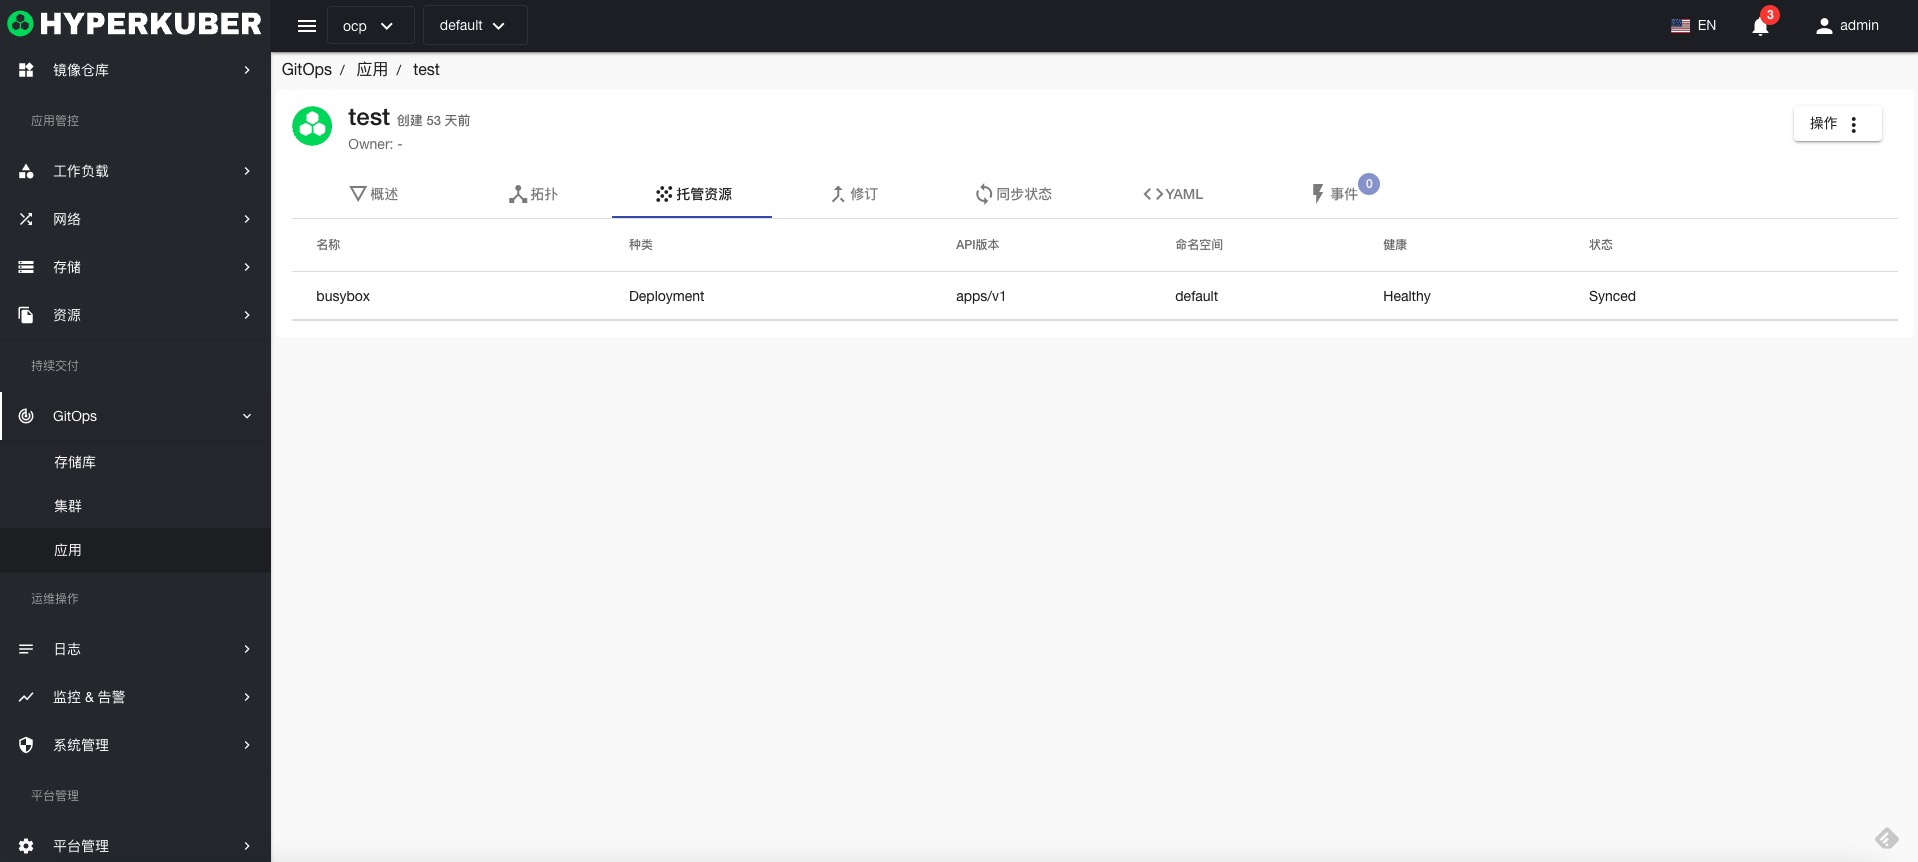
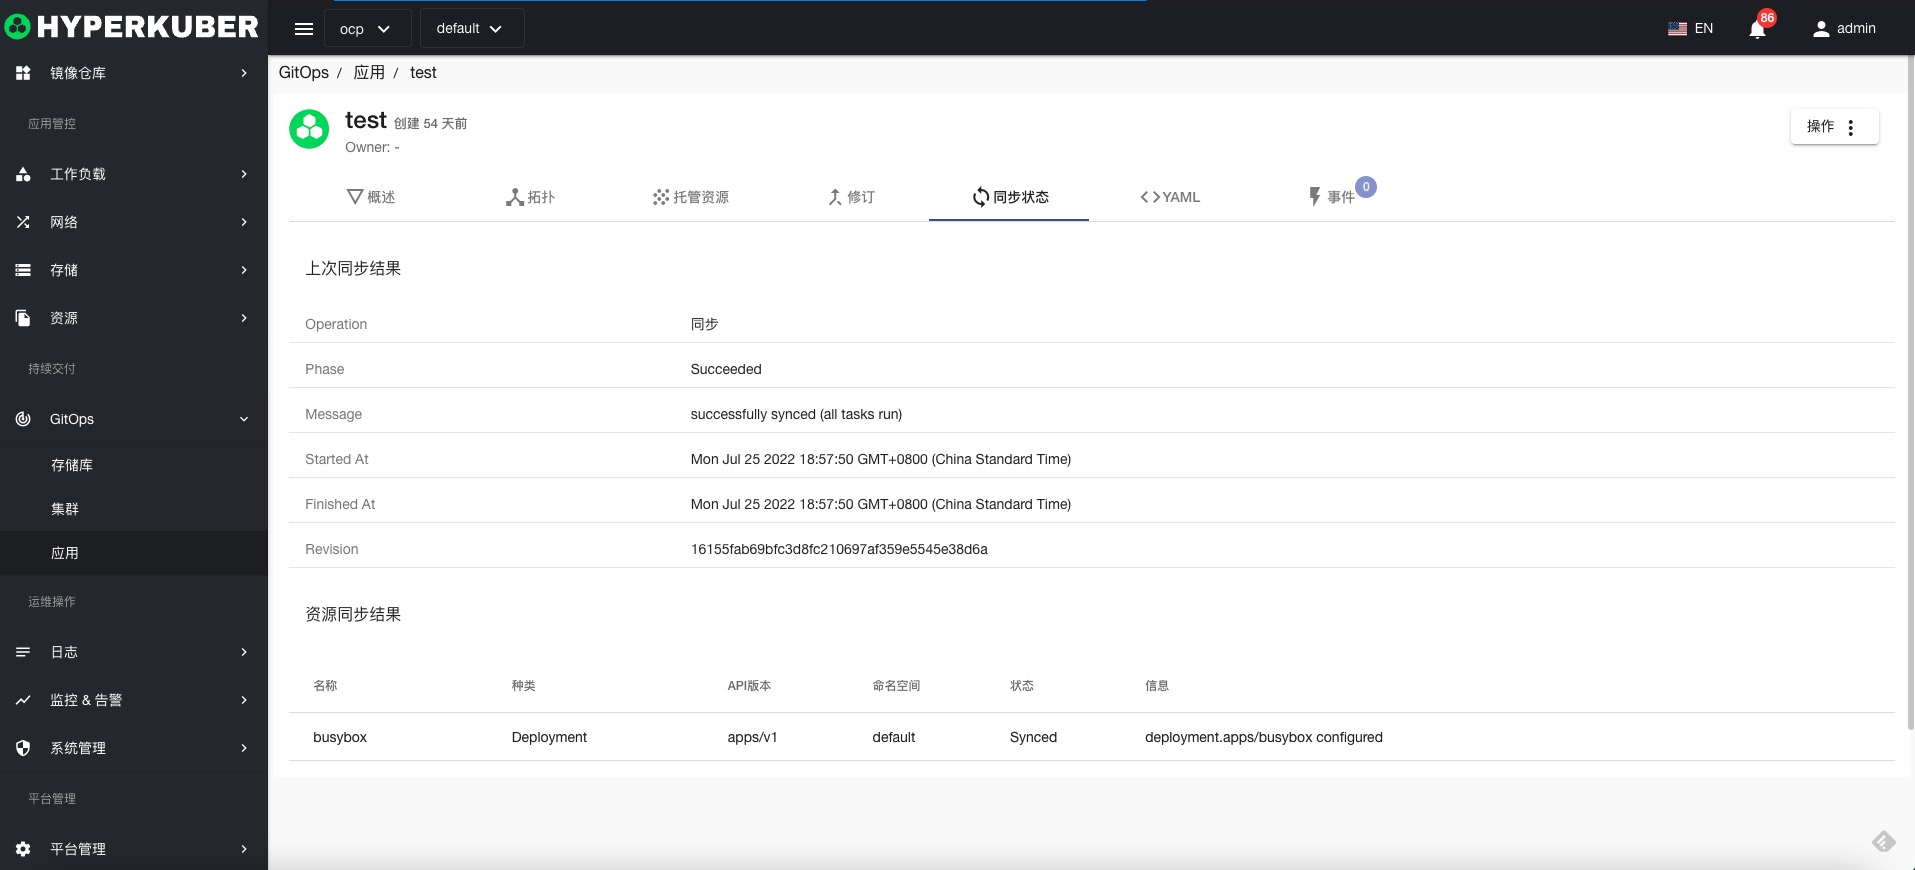
add home readme.md

diff --git a/assets/user-guide/home/project-zh.md b/assets/user-guide/home/project-zh.md
@@ -1,1 +1,39 @@
 # 项目
+
+## 项目
+项目用于对相关对象进行分组和隔离
+![Minion](../../../assets/images/home/project-list.jpg)
+
+## 项目操作
+
+### 创建
+点击“创建项目”按钮，进入创建项目页面，填写必要参数，保存。
+![Minion](../../../assets/images/home/project-create1.jpg)
+参数说明：
+名称：集群中唯一标识
+显示名称： 项目的显示名称
+描述：项目的描述信息
+多集群选择： 选择项目需要创建到的集群
+![Minion](../../../assets/images/home/project-create2.jpg)
+项目总资源限制：
+* CPU 分配以及限制
+* 内存 分配以及限制
+* Pod个数限制
+
+应用程序默认分配：
+* CPU 分配以及限制
+* 内存 分配以及限制
+
+### 详情
+点击“项目”名称链接，进入项目详情页面。
+![Minion](../../../assets/images/home/project-info1.jpg)
+项目资源拓扑图，包括主要的Workload资源显示以及其相互关系
+![Minion](../../../assets/images/home/project-info2.jpg)
+项目用户资源显示
+![Minion](../../../assets/images/home/project-info3.jpg)
+
+
+### 删除
+选择需要删除的项目，点击多选框选择，点击“删除”按钮，在确定输入框输入“yes”，即可完成删除操作。
+### 刷新
+点击“刷新”，即可完成项目列表的刷新。

diff --git a/assets/user-guide/gitops/application-zh.md b/assets/user-guide/gitops/application-zh.md
@@ -25,12 +25,23 @@
 ### 应用详情
 点击“Git应用”列表的链接，进入Git应用详情页面。
 ![Minion](../../../assets/images/gitops/app-info1.jpg)
+Git应用拓扑
 ![Minion](../../../assets/images/gitops/app-info2.jpg)
+Git应用资源
 ![Minion](../../../assets/images/gitops/app-info3.jpg)
+Git仓库信息
 ![Minion](../../../assets/images/gitops/app-info4.jpg)
+Git应用与Git仓库同步状态
 ![Minion](../../../assets/images/gitops/app-info5.jpg)
-![Minion](../../../assets/images/gitops/app-info6.jpg)
+Git应用Yaml信息
+![Minion](../../../assets/images/gitops/app-info7.jpg)
+Yaml支持操作 
+* update
+* apply
+* merge
 
+Git应用事件信息
+![Minion](../../../assets/images/gitops/app-info6.jpg)
 ### 删除
 选择需要删除的Git应用，点击多选框选择，点击“删除”按钮，在确定输入框输入“yes”，即可完成删除操作。
 ### 刷新

diff --git a/assets/user-guide/home/event-zh.md b/assets/user-guide/home/event-zh.md
@@ -1,1 +1,16 @@
-# 事件
+# 首页
+
+## 事件
+
+event中可以显示集群资源的生命周期，为服务的客观测性提供数据来源。
+![Minion](../../../assets/images/home/event-list.jpg)
+## 事件操作
+
+
+### 搜索
+event支持metadata.name关键字进行搜索
+### 事件详情
+点击事件名称的链接，显示事件详情
+![Minion](../../../assets/images/home/event-detail.jpg)
+### 刷新
+点击“刷新”，即可完成Git应用列表的刷新。

diff --git a/assets/user-guide/home/status-zh.md b/assets/user-guide/home/status-zh.md
@@ -1,1 +1,13 @@
 # 状态
+
+## 项目状态
+
+点击左侧菜单“状态”，显示所选项目的状态
+
+![Minion](../../../assets/images/home/status.jpg)
+
+项目状态信息包含
+* 项目Workload资源统计
+* 项目资源限制（包括CPU分配以及限制，内存分配以及限制，Pod个数）
+* 项目监控信息（CPU，内存，磁盘使用量统计，网络上行/下行流量）
+* 项目Pod资源使用Top（CPU，内存，磁盘使用量）

diff --git a/assets/user-guide/home/cluster-zh.md b/assets/user-guide/home/cluster-zh.md
@@ -1,1 +1,13 @@
 # 集群
+
+## 集群状态
+
+点击左侧菜单“集群”，显示hyperkuber平台下的权限内的集群的状态
+
+![Minion](../../../assets/images/home/cluster.jpg)
+
+集群状态信息包含
+* 集群Workload资源统计
+* 集群计算资源统计
+* 集群网络带宽
+* 集群节点资源使用Top

diff --git a/assets/user-guide/monitoring/alert-zh.md b/assets/user-guide/monitoring/alert-zh.md
@@ -1,7 +1,7 @@
 # 告警
 
 ## 告警
-告警显示集群中的此刻产生的告警
+告警显示集群项目中的此刻产生的告警
 
 ![Minion](../../../assets/images/monitoring/alert.jpg)
 
